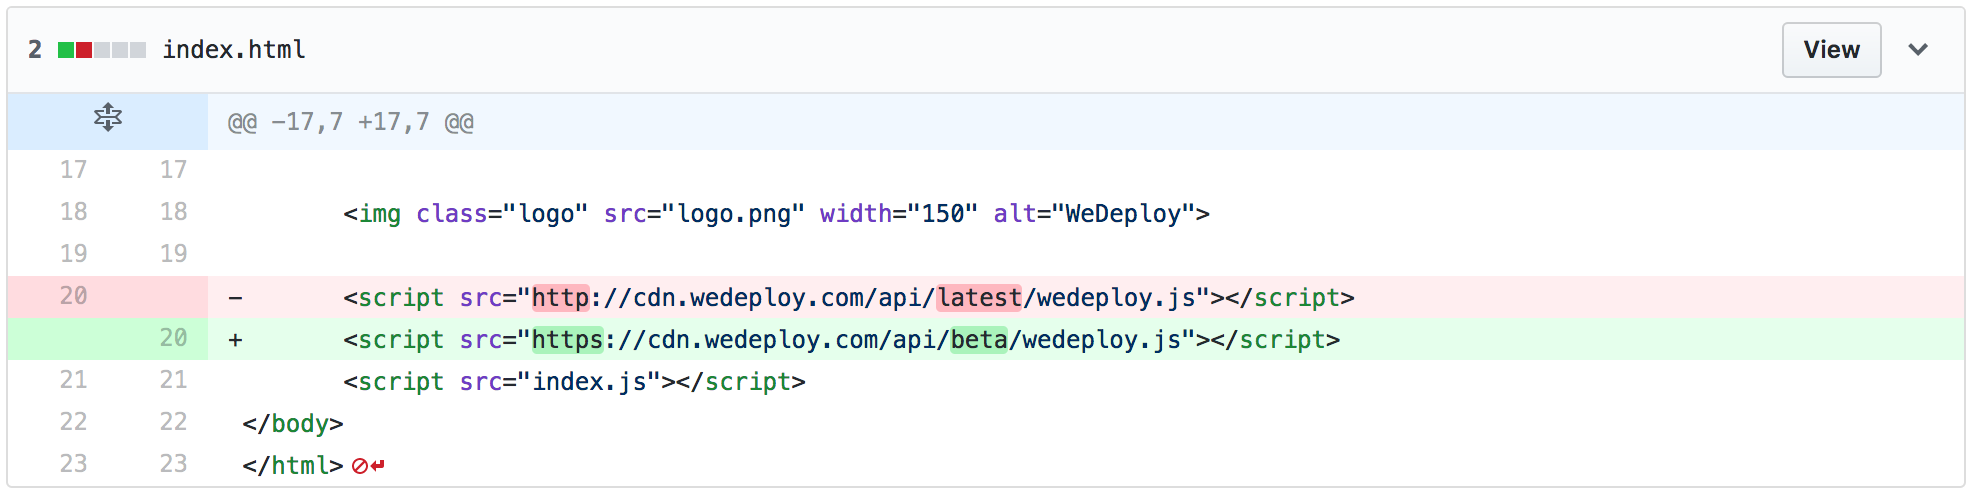
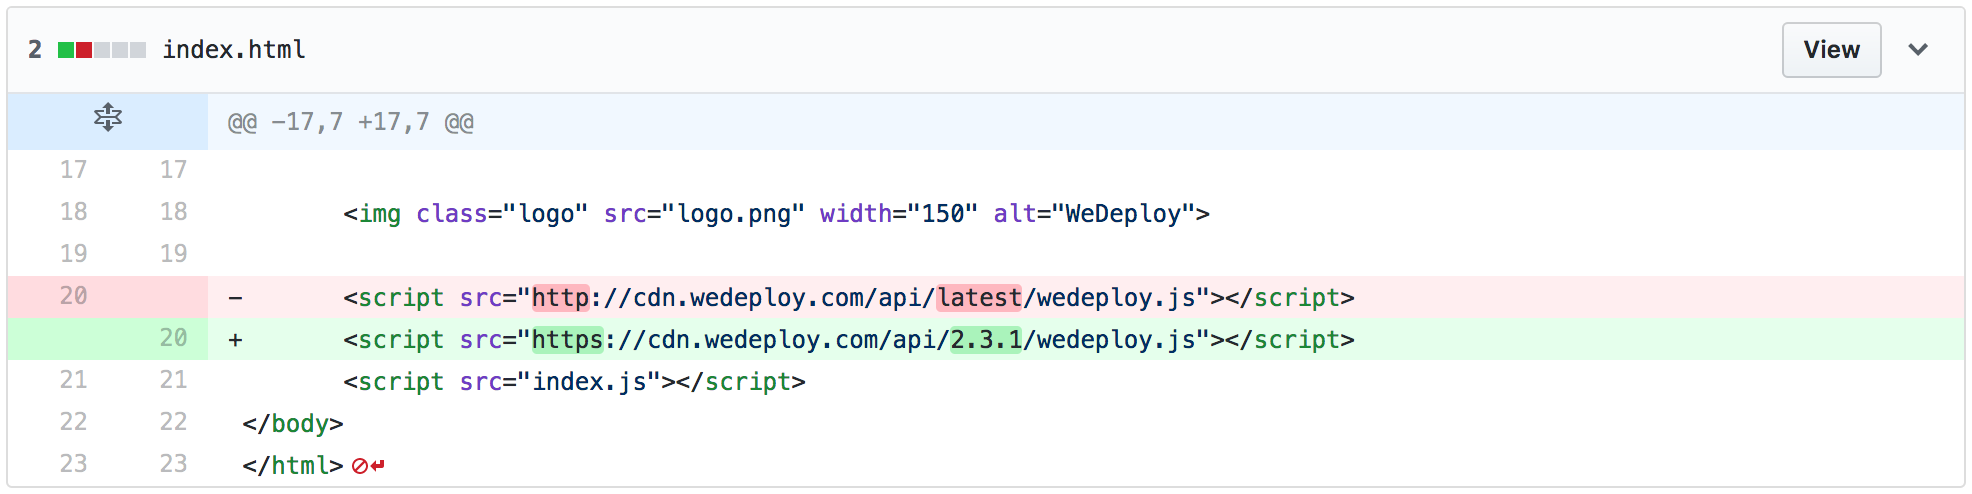
Fixes versions on migration guide

diff --git a/ui/src/pages/docs/deploy/migrating-to-beta.md b/ui/src/pages/docs/deploy/migrating-to-beta.md
@@ -86,11 +86,11 @@ Here is an example of the `wedeploy.json` that you could use to deploy a Liferay
 
 ## API client
 
-**CDN Links**
+**JavaScript CDN Links**
 
-1. Update your CDN API links to _https_.
+1. Update your JavaScript CDN API links to _https_.
 
-2. Update the version to _0.0.1_
+2. Update the version to _2.3.1_
 
 	![CDN HTTPS](/images/docs/deploy/migration--cdn-https.png)
 
